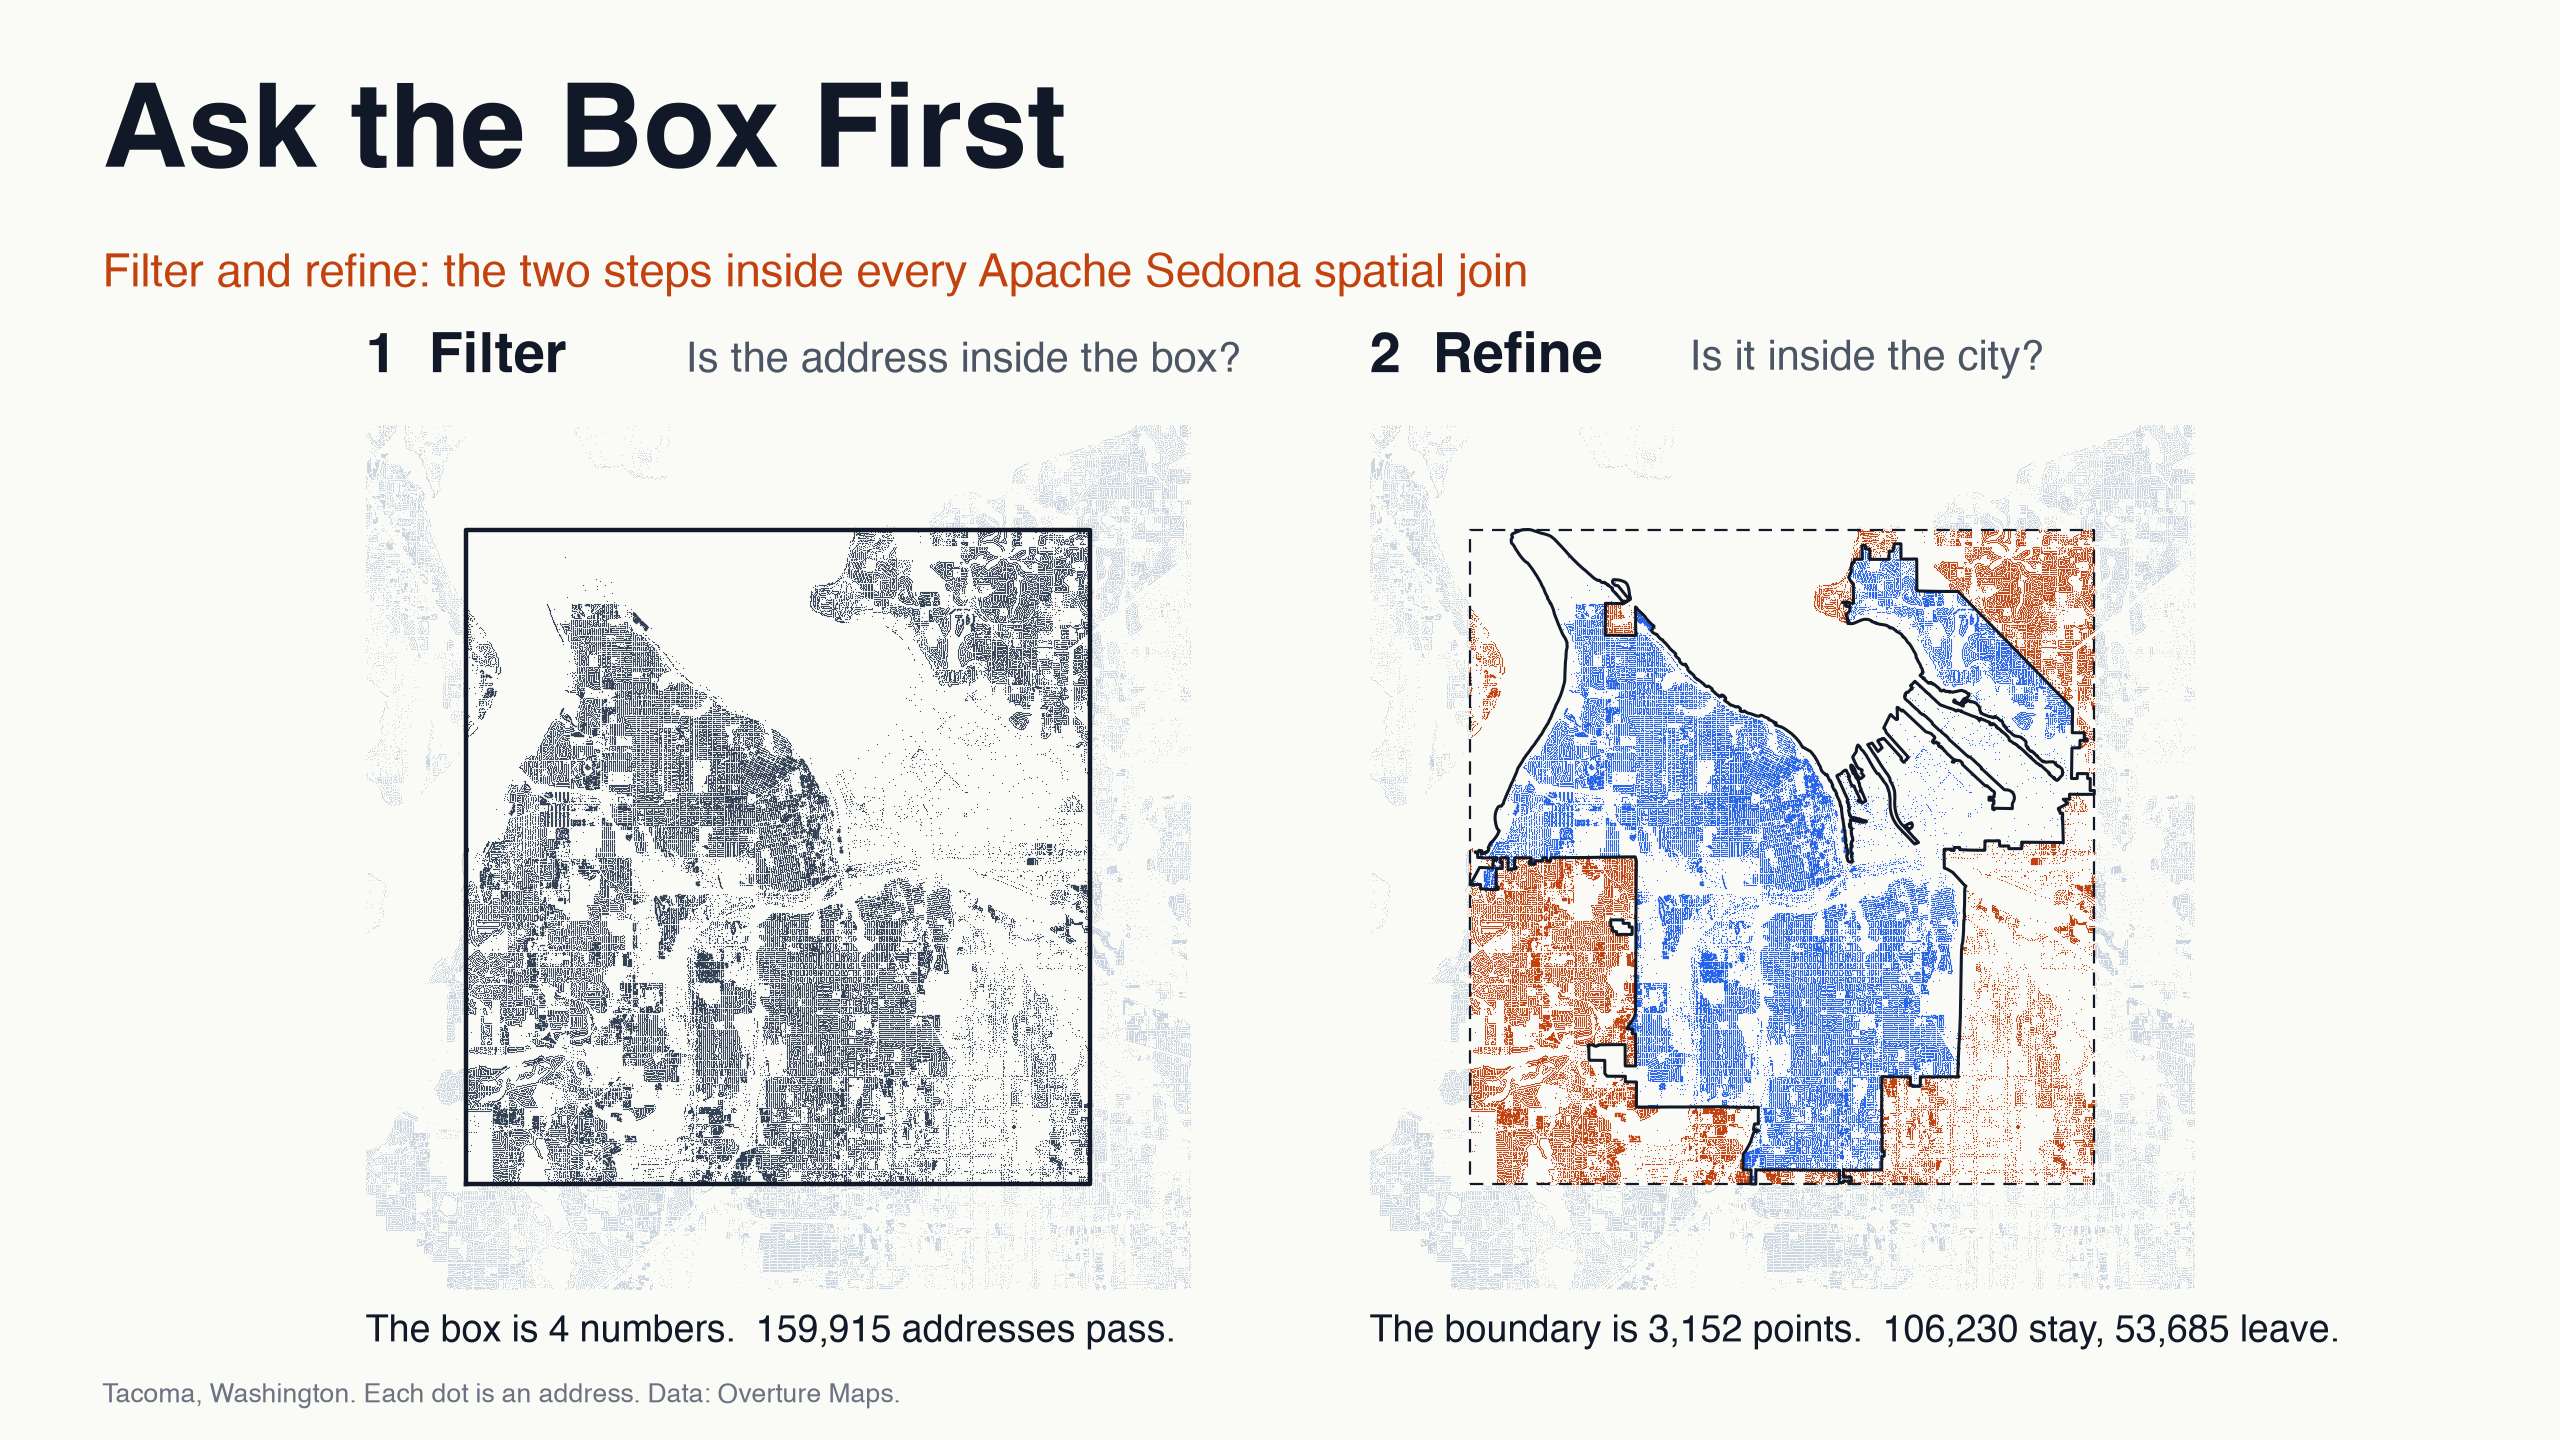
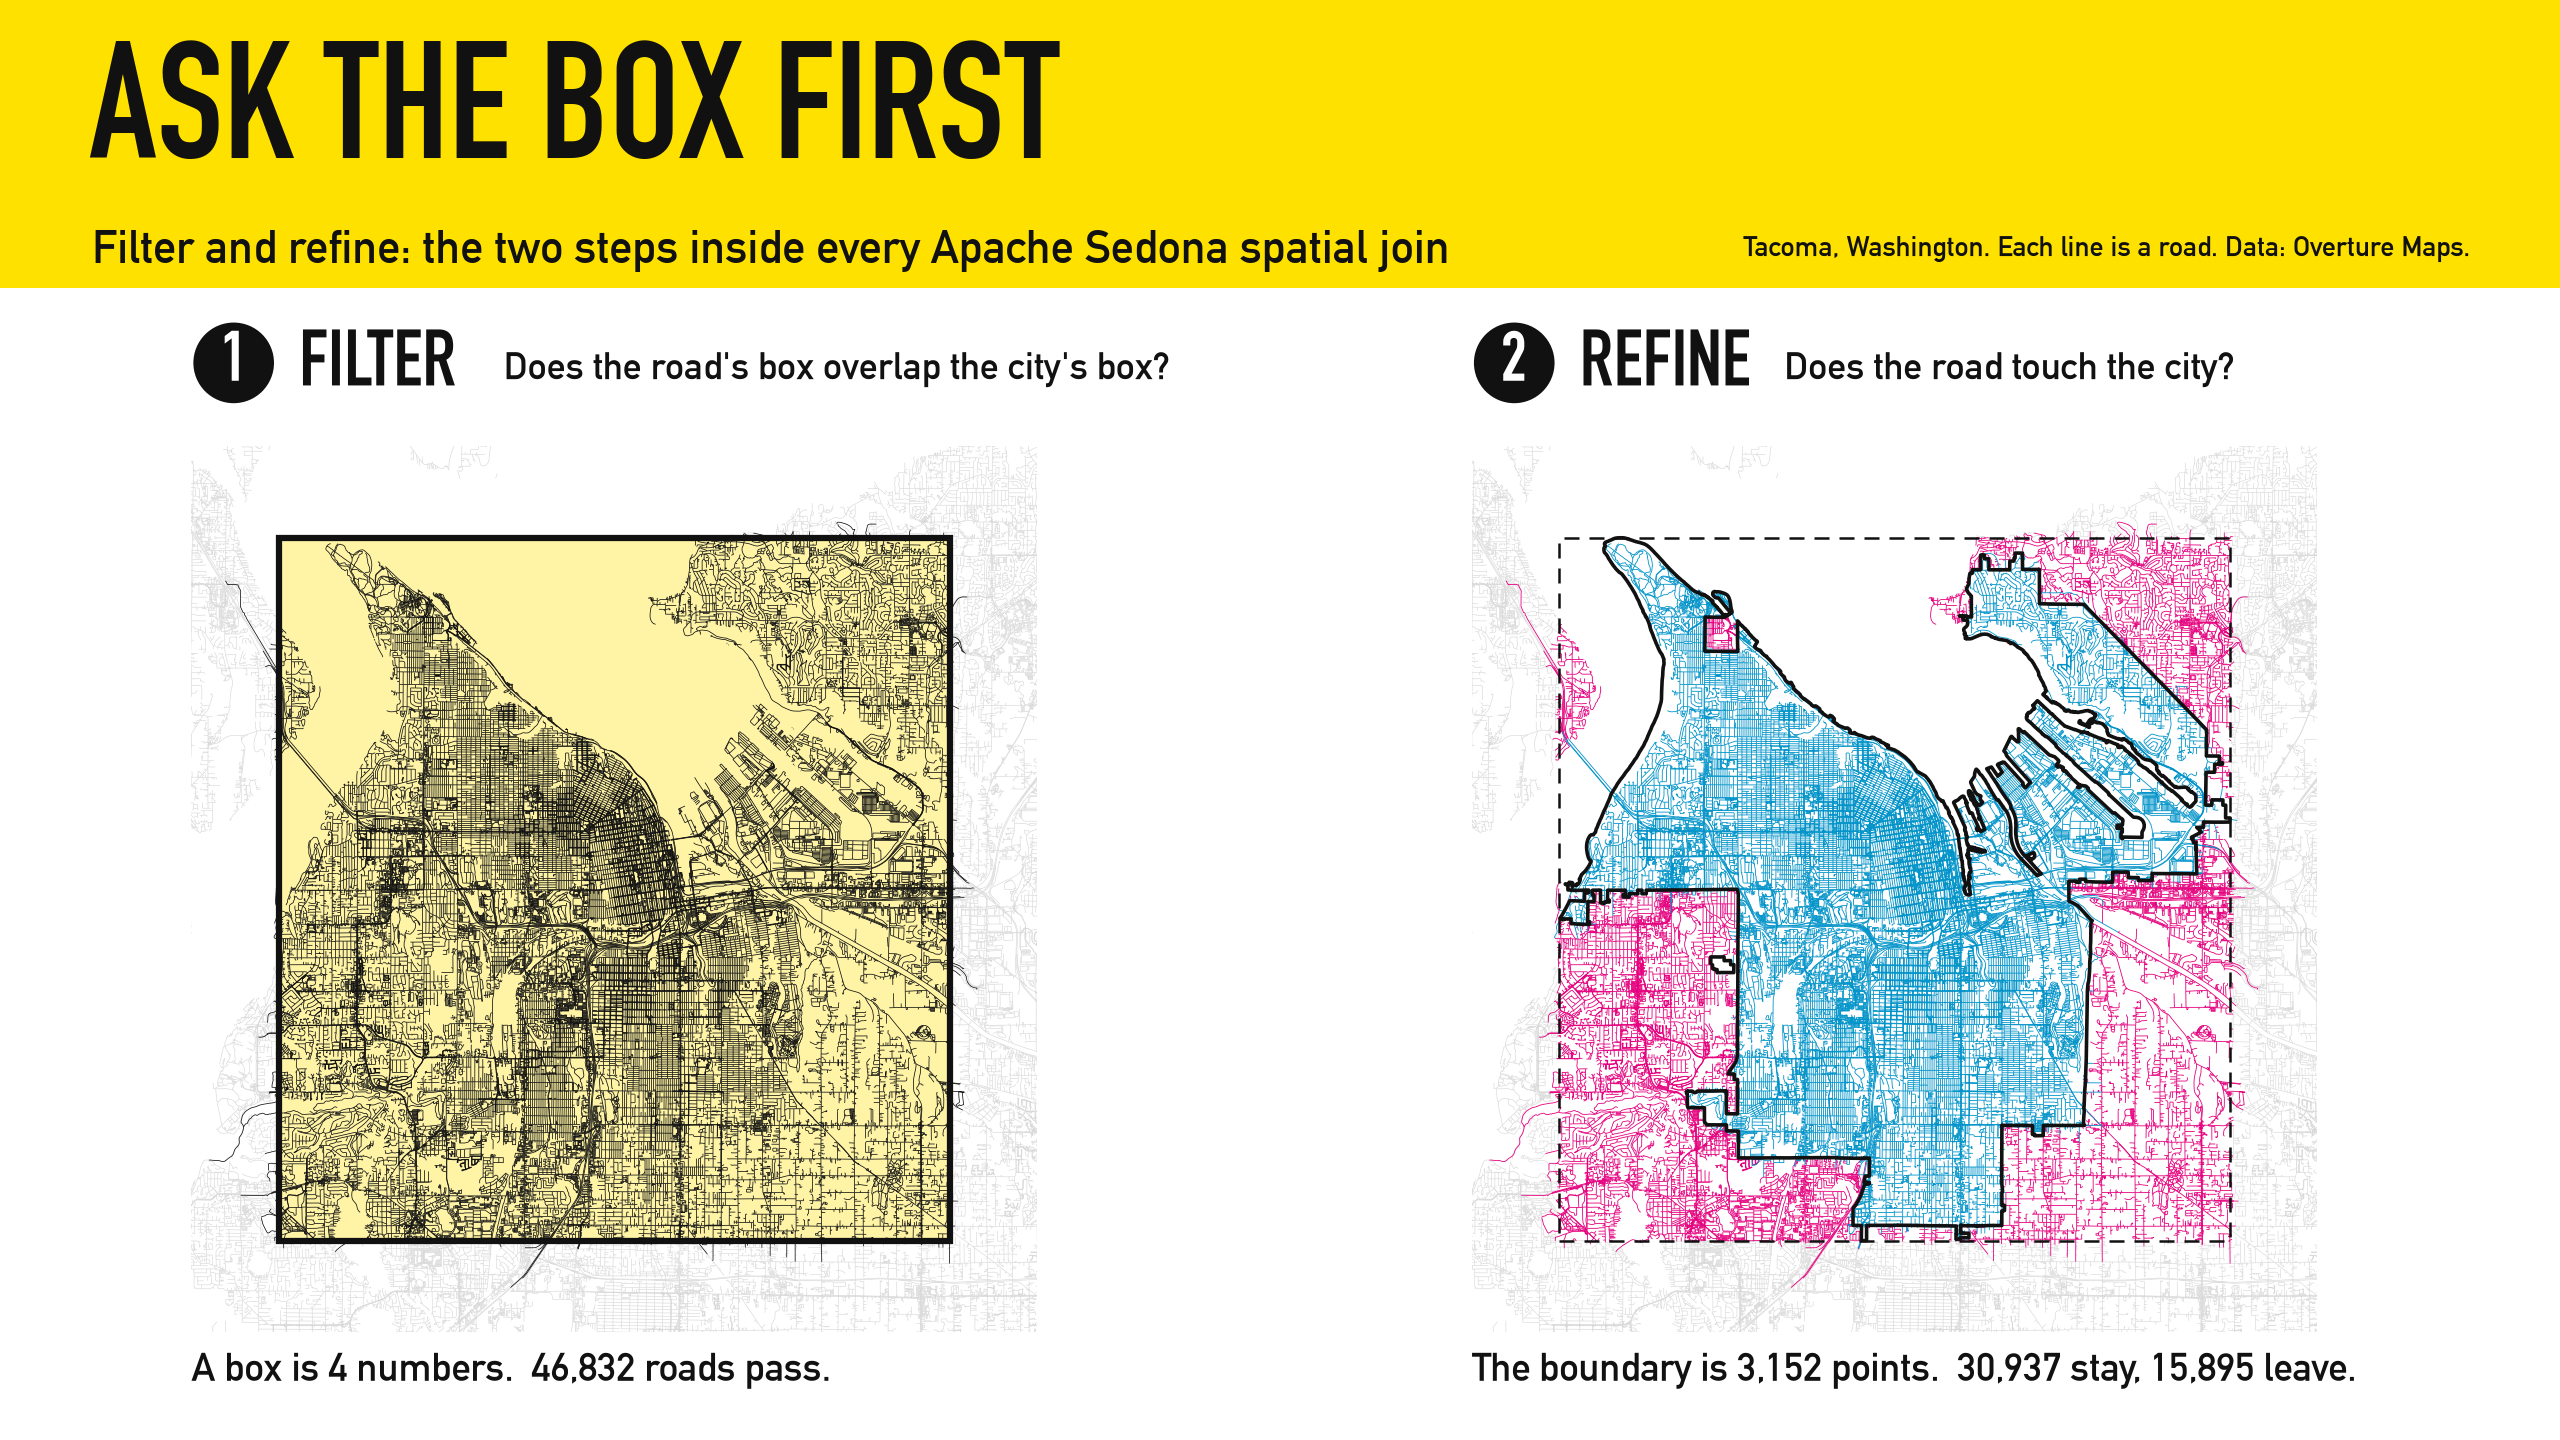
[DOCS] Use roads, a tree diagram and a new figure style in the filter and refine post

diff --git a/docs/blog/posts/filter-and-refine.md b/docs/blog/posts/filter-and-refine.md
@@ -12,40 +12,38 @@ slug: filter-and-refine
 
 # Ask the Box First: Filter and Refine in Apache Sedona
 
-*Sedona internals, one idea at a time.*
+A spatial join asks one question again and again: does this road touch this city? Overture Maps lists 305 cities and towns and 1,495,982 road segments in Washington State, so the join has 456 million pairs to ask about. The exact answer is slow, because the boundary of Tacoma alone is 3,152 points and a road is a line with many points of its own. Apache Sedona asks a cheaper question first, and this short post shows how.
 
-A spatial join asks one question again and again: is this address inside this city? Overture Maps lists 305 cities and towns and 3,036,650 addresses in Washington State, so the join has 926 million pairs to ask about. The exact answer is slow, because the boundary of Tacoma alone is 3,152 points. Apache Sedona asks a cheaper question first, and this short post shows how.
-
-![Two maps of Tacoma, Washington. On the left, the filter step: every address inside the bounding box of the city is dark, 159,915 addresses. On the right, the refine step: the city boundary is drawn, 106,230 addresses inside it are blue and 53,685 outside it are orange](filter-and-refine-cover.png)
+![Two maps of the roads of Tacoma, Washington. On the left, the filter step: the bounding box of the city is yellow and the 46,832 roads whose boxes overlap it are black. On the right, the refine step: the city boundary is drawn, the 30,937 roads that touch the city are blue and the 15,895 that do not are pink](filter-and-refine-cover.png)
 
 <!-- more -->
 
 ## Filter: ask the box
 
-Every shape has a bounding box, the smallest rectangle that holds it. A box is four numbers, and testing a point against it takes four comparisons. An address outside the box of Tacoma is outside Tacoma. An address inside the box may be in Tacoma, so it becomes a candidate. The box of Tacoma holds 159,915 addresses.
+Every shape has a bounding box, the smallest rectangle that holds it. A box is four numbers, and two boxes are compared with four comparisons. When two boxes are apart, the shapes inside them are apart. When two boxes overlap, the shapes may touch, so the pair becomes a candidate. The box of Tacoma overlaps the boxes of 46,832 roads.
 
 ## The tree: skip most boxes
 
-Testing every address against 305 boxes is still a lot of work. Sedona stores the boxes in an R-tree. The tree groups up to ten nearby boxes into a bigger box, then groups those boxes again, until one box covers the state. The 305 city boxes become 35 groups, then 4, then 1.
+Comparing every road with 305 city boxes is still a lot of work. Sedona stores the boxes in an R-tree. The tree groups up to ten nearby boxes into a bigger box, then groups those boxes again, until one box covers the state. The 305 city boxes become 35 groups, then 4, then 1.
 
-A search starts at the top and opens only the boxes that hold the address.
+A search starts at the top and opens only the boxes that overlap the box of the road.
 
-![Four maps that zoom in step by step. The first shows 4 boxes over Washington State, one of them blue. The second shows the 10 boxes inside it, one blue. The third shows 10 city boxes, three blue. The fourth shows the outlines of Tacoma, University Place and Fircrest, with Fircrest filled blue around a star](filter-and-refine-tree.png)
+![On the left, a map of Washington State with the four top boxes of the tree labeled A to D, the smaller boxes inside them, and one small box in yellow. On the right, a close view of one road and four cities: University Place and Steilacoom in blue, Tacoma and Lakewood in pink. Below, the same boxes drawn as a tree: a root, four boxes, 35 boxes and 305 city boxes, with the path through box B highlighted](filter-and-refine-tree.png)
 
-The star is one address in Fircrest, a small city that sits inside the box of Tacoma. The search tests 4 boxes, then 10, then 10. After 24 box tests, three candidates are left: Tacoma, University Place and Fircrest.
+The star is Chambers Creek Road West, 2.9 km long. The search tests 4 boxes, then 10, then 10. After 24 box tests, four candidates are left: Tacoma, University Place, Steilacoom and Lakewood.
 
 ## Refine: ask the shape
 
-Only the candidates get the exact test against the real boundary. The address is inside the box of Tacoma and outside Tacoma. It is inside Fircrest. Three exact tests, one match.
+Only the candidates get the exact test against the real boundary. The road runs through University Place and Steilacoom. Its box overlaps the boxes of Tacoma and Lakewood, and the road never reaches either city. Four exact tests, two matches.
 
 ## The whole join
 
-Sedona 1.9.1 counts its own work during a join. For all of Washington, it reported 2,627,358 candidates and 1,865,052 matches.
+Sedona 1.9.1 counts its own work during a join. For all of Washington, it reported 1,171,972 candidates and 840,156 matches.
 
-![A large grey square stands for 926,178,250 possible pairs. A small orange square in its corner stands for the 2,627,358 pairs that pass the box test, and a blue square inside it for the 1,865,052 pairs that pass the exact test](filter-and-refine-pairs.png)
+![A large grey square stands for 456,274,510 possible pairs. A small pink square in its corner stands for the 1,171,972 pairs whose boxes overlap, and a blue square inside it for the 840,156 pairs that touch](filter-and-refine-pairs.png)
 
-The filter step left 0.28% of all pairs. The refine step ran the slow test on those and kept 71% of them.
+The filter step left 0.26% of all pairs. The refine step ran the slow test on those and kept 72% of them.
 
-Filter is cheap and touches many pairs. Refine is exact and touches few. Every spatial join in Sedona has this shape. The bounding boxes in a GeoParquet footer, from [One Sort, Many Indexes](https://sedona.apache.org/latest/blog/2026/11/06/one-sort-many-indexes/), are the same idea one level up: there the box lets a reader skip a whole row group.
+Filter is cheap and sees many pairs. Refine is exact and sees few. Every spatial join in Sedona has this shape. The bounding boxes in a GeoParquet footer, from [One Sort, Many Indexes](https://sedona.apache.org/latest/blog/2026/11/06/one-sort-many-indexes/), are the same idea one level up: there the box lets a reader skip a whole row group.
 
-*Cities and addresses from Overture Maps (divisions and addresses themes, release 2026-10-21.0). The tree is the R-tree in Sedona 1.9.1, built over the 305 city boxes. Counts from one `ST_Contains` join on Sedona 1.9.1 on a laptop.*
+*Cities and roads from Overture Maps (divisions and transportation themes, release 2026-10-21.0). The tree is the R-tree in Sedona 1.9.1, built over the 305 city boxes. Counts from one `ST_Intersects` join on Sedona 1.9.1 on a laptop.*
